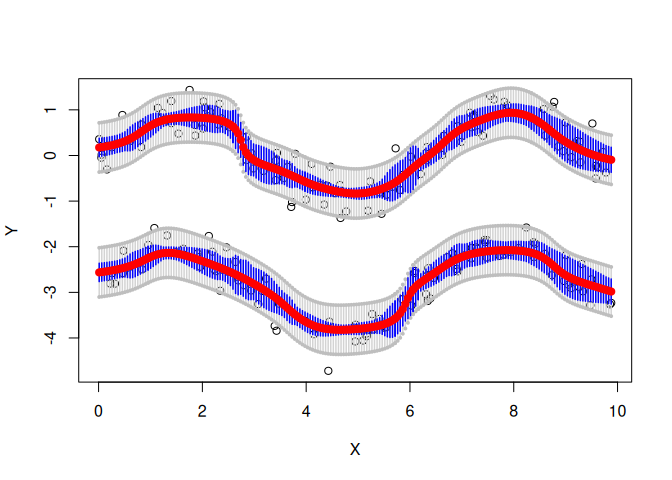
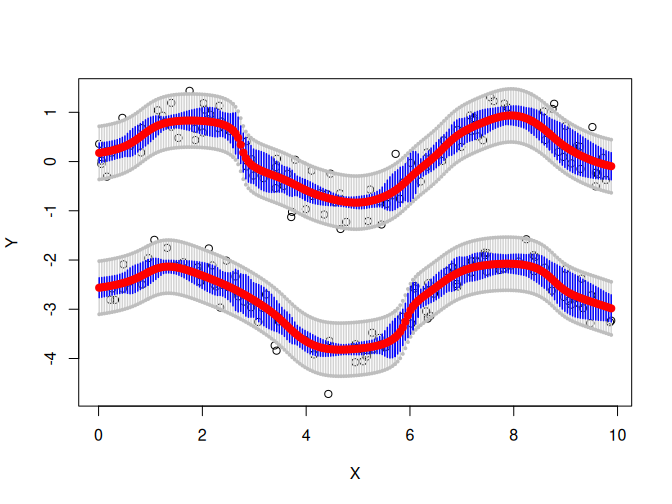
Como había creado un set de datos que era el mismo que el tuyo, y me gustó más el nombre que le puse, pues lo cambié en todos los sitios. Actualicé la documentación para que todos los sitos se use el graficado de las modas como un método. También terminé de hacer un proto README bastante chapucero e

diff --git a/README.md b/README.md
@@ -13,25 +13,34 @@ You can install the development version of MRpms from
 
 ## About this package
 
-The main goal of this package is to preforms modal regression over data
-sets with, as to date, unidimensional covariable. That is: to detect
+The main goal of this package is to performs modal regression over data
+sets with an, as to date, unidimensional covariable. That is: to detect
 modes of the response variable $Y$’s distribution conditional to
 $X = x$, where $X$ is the covaribale.
 
 <!-- incluir aquí varias de las referencias o, incluso, nuestro propio paper -->
 
-The basic function included in this package is `PMS`, which preforms the
-estimaton over a given matrix sample:
+The basic function included in this package is `PMS`, which performs the
+estimaton over a given matrix sample using the *partial mean shift*
+algorithm:
 
 ``` r
 library(MRpms)
 data(twosines) # a data set with two sines shifted by 3 and a normal error of sd = 0.3 
 modas <- PMS(twosines, h1 = 0.5, h2 = 0.5) 
 plot(twosines) 
-plot(modas, pch = 19, col = 2)
+plot(modas, pch = 19, col = 2) # a previous plot is needed
 ```
 
-<img src="man/figures/README-unnamed-chunk-2-1.png" alt="" width="100%" />
+<div class="figure" style="text-align: center">
+
+<img src="man/figures/README-unnamed-chunk-2-1.png" alt="Results of *partial mean shift* over the twosines data set." width="100%" />
+<p class="caption">
+
+Results of *partial mean shift* over the twosines data set.
+</p>
+
+</div>
 
 In addition, is possible to compute confidence regions too —blue are
 pointwise intervals, grey is an uniform confidence region, both to
@@ -39,10 +48,21 @@ conditional modes—:
 
 ``` r
 
+# invisible is just to avoid a big console output
 invisible(ConfPMS(twosines, modas = modas, h1 = 0.5, h2 = 0.5, B = 10))
 ```
 
-<img src="man/figures/README-unnamed-chunk-3-1.png" alt="" width="100%" />
+<div class="figure" style="text-align: center">
+
+<img src="man/figures/README-unnamed-chunk-3-1.png" alt="Confidence regions for the twosines data set. In blue, the pointwise confidence intervals for modes in each $X$ point. In grey, an uniform confidence region for all the modal mainfolds." width="100%" />
+<p class="caption">
+
+Confidence regions for the twosines data set. In blue, the pointwise
+confidence intervals for modes in each $X$ point. In grey, an uniform
+confidence region for all the modal mainfolds.
+</p>
+
+</div>
 
 And, last, with `PredPMS` an uniform prediction region is computed for
 the response variable $Y$ —in grey—:
@@ -52,7 +72,22 @@ the response variable $Y$ —in grey—:
 invisible(PredPMS(muestra = twosines, h1 = 0.5, h2 = 0.5))
 ```
 
-<img src="man/figures/README-unnamed-chunk-4-1.png" alt="" width="100%" />
+<div class="figure" style="text-align: center">
+
+<img src="man/figures/README-unnamed-chunk-4-1.png" alt="Uniform prediccion intervals to ensure, at $95\%$, the value of Y known $X = x$." width="100%" />
+<p class="caption">
+
+Uniform prediccion intervals to ensure, at $95\%$, the value of Y known
+$X = x$.
+</p>
+
+</div>
+
+Furthermore, we programed a bandwith selector by two different methods:
+a “cross validation”-like proposed by Zhou, H. and Huang, X. (2019); and
+other build-up the size of prediction intervals,Chen et tal (2016). To
+reduce computability times, the function performs a Nedler-Mead
+heuristic algorithm.
 
 <!-- ``` r -->
 